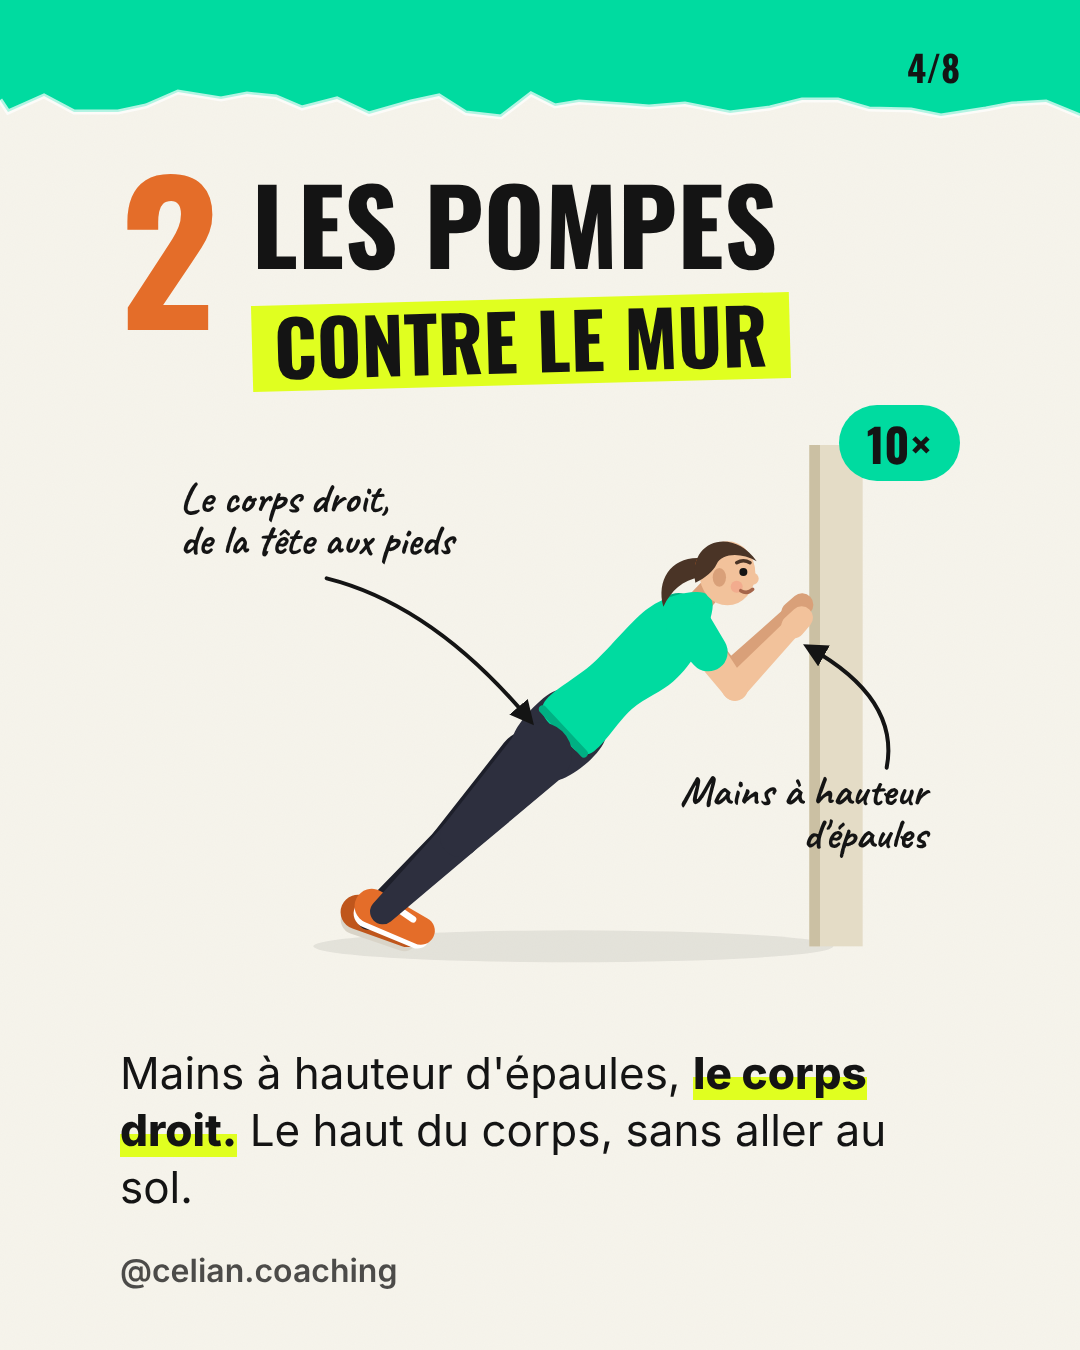
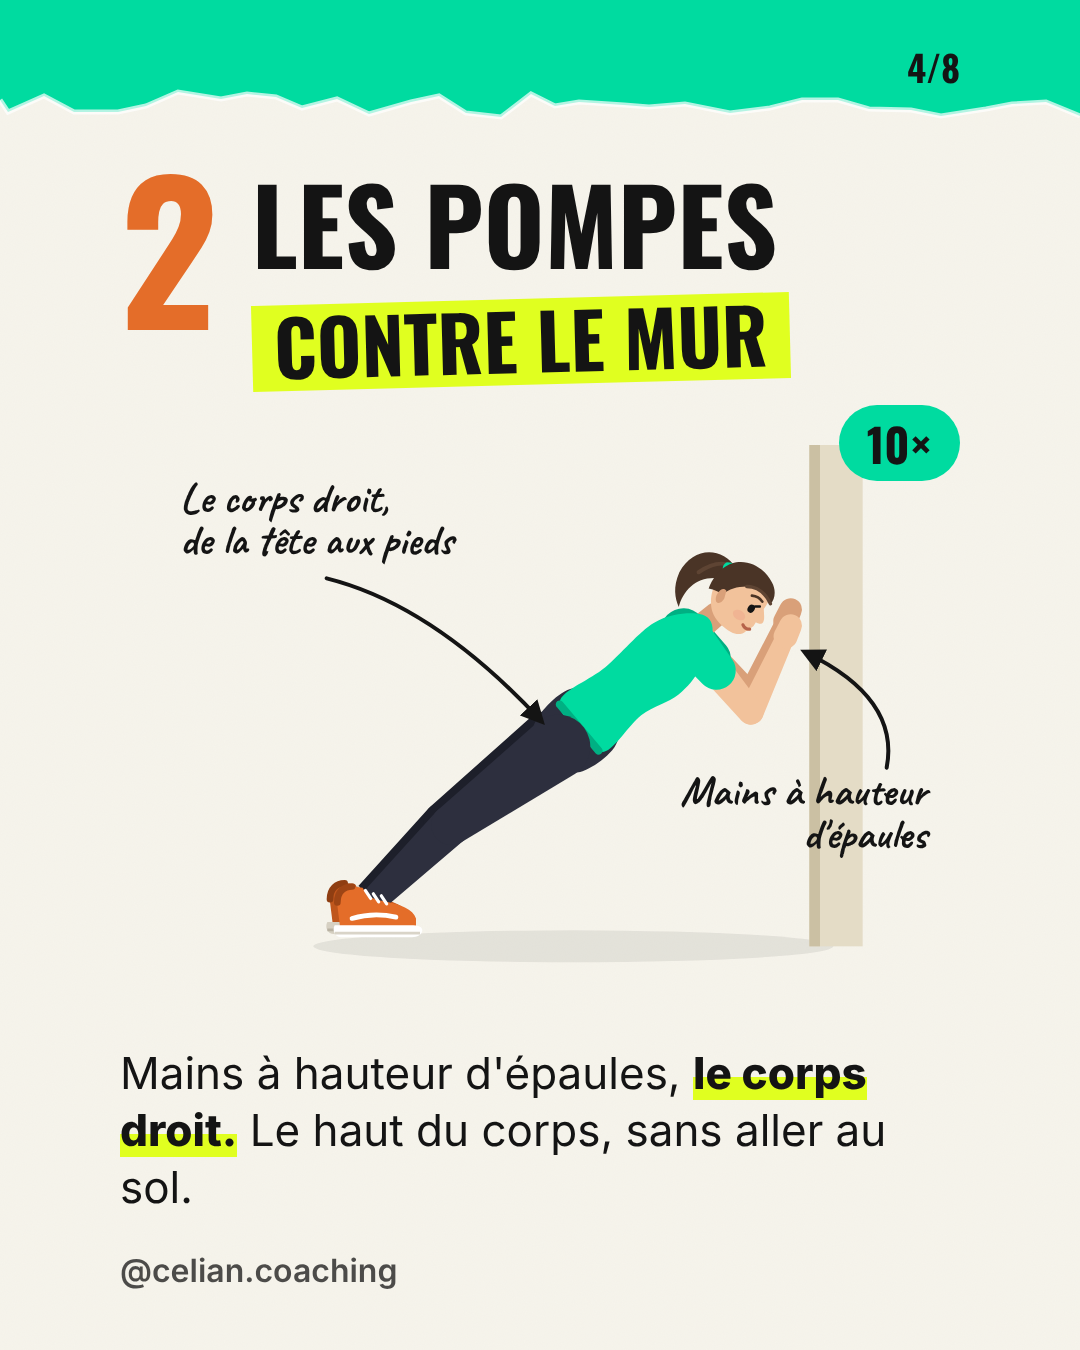
Carousel 01: sneaker shoes, new face, fixed-proportion skeleton, bird dog redrawn
Claude-Session: https://claude.ai/code/session_01EmtKGbXg2Rz9u67xYLS3c3

diff --git a/.claude/instagram/carrousels/01-4-mouvements/slides.html b/.claude/instagram/carrousels/01-4-mouvements/slides.html
@@ -209,17 +209,22 @@ function lisse(pts, col) {
   return `<path d="${d} Z" fill="${col}"/>`;
 }
 
+// basket de profil, tracée cheville à l'origine, pointe vers +x, semelle vers +y
 function chaussure(cheville, pied, dir, ombre) {
-  const u = unit(cheville, pied), talon = add(cheville, u, -9);
-  const sol = dir === 1 ? [-u[1], u[0]] : [u[1], -u[0]];
-  return cap(add(talon, sol, 6), add(pied, sol, 5), 11, 9, ombre ? '#d9d4c8' : '#fff')
-       + cap(talon, pied, 13, 10.5, ombre ? C.chaussureO : C.chaussure)
-       + cap(add(lerp(talon, pied, .45), sol, -7), add(lerp(talon, pied, .8), sol, -5), 2.5, 2.5, ombre ? '#9e4515' : '#fff');
+  const u = unit(cheville, pied), s = dir === 1 ? [-u[1], u[0]] : [u[1], -u[0]];
+  const tige = ombre ? C.chaussureO : C.chaussure, semelle = ombre ? '#d6d0c2' : '#fff';
+  return `<g transform="matrix(${r1(u[0] * 1000) / 1000} ${r1(u[1] * 1000) / 1000} ${r1(s[0] * 1000) / 1000} ${r1(s[1] * 1000) / 1000} ${r1(cheville[0])} ${r1(cheville[1])})">`
+       + `<path d="M-15 10 L-17 -6 C-17 -16 -12 -20 -5 -20 L2 -19 C5 -13 10 -10 18 -9 C30 -7 40 -3 42 4 L42 10 Z" fill="${tige}"/>`
+       + `<path d="M-19 9 L40 9 C46 9 48 12 46 15 C44 18 40 18 36 18 L-14 18 C-19 18 -21 13 -19 9 Z" fill="${semelle}"/>`
+       + `<path d="M-19 15 L45 15" stroke="${ombre ? '#b9b2a2' : '#d9d4c8'}" stroke-width="2"/>`
+       + `<path d="M-6 4 C4 1 14 0 27 3" stroke="${semelle}" stroke-width="3.5" fill="none" stroke-linecap="round"/>`
+       + [[6, -14], [12, -11.5], [18, -10]].map(([x, y]) => `<path d="M${x - 2} ${y - 3} l4 6" stroke="${semelle}" stroke-width="2.4" stroke-linecap="round"/>`).join('')
+       + `<path d="M-17 -8 C-17 -16 -12 -20 -6 -20" stroke="${ombre ? '#8f3e12' : '#9e4515'}" stroke-width="5" fill="none" stroke-linecap="round"/></g>`;
 }
 function jambe(l, dir, ombre) {
   const bas = ombre ? C.basO : C.bas;
-  return chaussure(l.cheville, l.pied, dir, ombre)
-       + cap(l.genou, l.cheville, 15, 9.5, bas) + cap(l.hanche, l.genou, 24, 15, bas);
+  return cap(l.genou, l.cheville, 15, 9, bas) + chaussure(l.cheville, l.pied, dir, ombre)
+       + cap(l.hanche, l.genou, 24, 15, bas);
 }
 function bras(a, ombre) {
   const peau = ombre ? C.peauO : C.peau, u = unit(a.coude, a.main);
@@ -238,26 +243,56 @@ function tronc(h, e, dir) {
   return lisse(bassin, C.bas) + lisse(haut, C.haut)
        + cap(at(.16, nb, 23), at(.16, nf, 22), 3, 3, C.hautO);
 }
-// tête de profil, dessinée regard vers la droite puis retournée selon dir
+// tête de profil (nez, lèvres, menton), regard vers la droite puis retournée selon dir
 function tete(t, dir, angle = 0) {
-  return `<g transform="translate(${t[0]} ${t[1]}) scale(${dir} 1) rotate(${angle})">`
-       + `<path d="M-14 -10 C-38 -14 -52 4 -46 26 C-40 14 -32 6 -18 4 Z" fill="${C.cheveux}"/>`
-       + `<circle cx="-17" cy="-6" r="5" fill="${C.chaussure}"/>`
-       + `<ellipse cx="2" cy="1" rx="21" ry="24" fill="${C.peau}"/>`
-       + `<circle cx="21" cy="5" r="4.5" fill="${C.peau}"/>`
-       + `<path d="M-22 8 C-28 -24 6 -34 24 -8 C12 -15 -2 -14 -6 -6 C-9 0 -14 4 -22 8 Z" fill="${C.cheveux}"/>`
-       + `<ellipse cx="-4" cy="4" rx="5" ry="7" fill="${C.peauO}"/>`
-       + `<circle cx="9" cy="11" r="4.5" fill="#f29c86" opacity=".6"/>`
-       + `<path d="M9 -7 q5 -3 10 0" stroke="${C.cheveux}" stroke-width="2.6" fill="none" stroke-linecap="round"/>`
-       + `<circle cx="14" cy="0" r="3" fill="#141414"/>`
-       + `<path d="M12 14 q5 3 9 -1" stroke="#a5654a" stroke-width="2.6" fill="none" stroke-linecap="round"/></g>`;
+  return `<g transform="translate(${r1(t[0])} ${r1(t[1])}) scale(${dir} 1) rotate(${r1(angle)})">`
+       + `<path d="M-12 -18 C-30 -26 -48 -14 -46 8 C-44 20 -38 26 -32 30 C-36 18 -34 4 -20 -4 Z" fill="${C.cheveux}"/>`
+       + `<path d="M-12 -18 C-24 -18 -30 -10 -34 0" stroke="#5e4433" stroke-width="3" fill="none" stroke-linecap="round"/>`
+       + `<rect x="-20" y="-20" width="9" height="13" rx="4" transform="rotate(-30 -15 -13)" fill="${C.haut}"/>`
+       + `<path d="M-19 -4 C-19 -20 -7 -25 5 -25 C16 -25 22 -17 22 -7 L22 -4 C24 -1 27 2 27 4.5 C27 6.5 25 7.5 22.5 7.5`
+       + ` C22.5 9.5 23 11 22 12.5 C22.5 14 22 16 20 17 C19 21 16 23.5 11 24 C4 24.5 -4 23 -9 19 C-15 14 -19 6 -19 -4 Z" fill="${C.peau}"/>`
+       + `<path d="M-21 6 C-27 -24 -2 -34 16 -24 C22 -21 25 -15 24 -10 C16 -15 8 -15 2 -11 C-4 -7 -8 -2 -10 4 C-13 4 -17 4 -21 6 Z" fill="${C.cheveux}"/>`
+       + `<path d="M2 -11 C8 -15 16 -15 24 -10" stroke="#5e4433" stroke-width="2.5" fill="none" stroke-linecap="round"/>`
+       + `<path d="M-9 0 C-14 -2 -15 8 -11 11 C-8 12 -7 9 -7 6" fill="${C.peauO}"/>`
+       + `<path d="M9 -7.5 Q13.5 -10 18 -8" stroke="${C.cheveux}" stroke-width="2" fill="none" stroke-linecap="round"/>`
+       + `<ellipse cx="14" cy="1" rx="2.6" ry="3.2" fill="#141414"/>`
+       + `<path d="M15.5 -2 l3 -2" stroke="#141414" stroke-width="1.8" stroke-linecap="round"/>`
+       + `<ellipse cx="9" cy="10" rx="5" ry="3.5" fill="#ef9a84" opacity=".35"/>`
+       + `<path d="M15.5 14.5 Q18.5 16.5 21.5 14.5" stroke="#b5634a" stroke-width="2.4" fill="none" stroke-linecap="round"/></g>`;
 }
 function personne(p) {
-  const t = lerp(p.epaule, p.tete, .78), cou = lerp(p.epaule, t, .55);
+  const cou = lerp(p.epaule, p.tete, .55);
   return jambe(p.jambeLoin, p.dir, true) + bras(p.brasLoin, true)
        + cap(lerp(p.hanche, p.epaule, .9), cou, 10, 9, C.peauO)
        + tronc(p.hanche, p.epaule, p.dir)
-       + jambe(p.jambe, p.dir, false) + tete(t, p.dir, p.angle) + bras(p.bras, false);
+       + jambe(p.jambe, p.dir, false) + tete(p.tete, p.dir, p.angle) + bras(p.bras, false);
+}
+
+// squelette aux proportions fixes : on donne le bassin, l'angle du buste,
+// et où vont mains et chevilles ; coudes et genoux se placent tout seuls.
+const L = { tronc: 130, cou: 44, bras: 70, avantBras: 62, cuisse: 100, tibia: 95, pied: 36 };
+const vec = (deg, l) => [Math.cos(deg * Math.PI / 180) * l, Math.sin(deg * Math.PI / 180) * l];
+function ik(a, cible, l1, l2, pli) {
+  const d = Math.min(Math.hypot(cible[0] - a[0], cible[1] - a[1]), l1 + l2 - .5);
+  const th = Math.atan2(cible[1] - a[1], cible[0] - a[0]);
+  const al = Math.acos((l1 * l1 + d * d - l2 * l2) / (2 * l1 * d)) * pli;
+  const mid = [a[0] + l1 * Math.cos(th + al), a[1] + l1 * Math.sin(th + al)];
+  return [mid, add(mid, unit(mid, cible), l2)];
+}
+function squelette(s) {
+  const h = s.hanche, e = add(h, vec(s.tronc, L.tronc));
+  const spine = s.tronc, aligne = s.dir === 1 ? spine + 90 : 270 - spine;
+  const jambe = (j, hh) => { const [g, c] = ik(hh, j.cheville, L.cuisse, L.tibia, j.pli);
+    return { hanche: hh, genou: g, cheville: c, pied: add(c, vec(j.pied, L.pied)) }; };
+  const bras = (b, ee) => { const [c, m] = ik(ee, b.main, L.bras, L.avantBras, b.pli);
+    return { epaule: ee, coude: c, main: m }; };
+  const loin = [-6 * s.dir, -3];
+  return {
+    dir: s.dir, hanche: h, epaule: e,
+    tete: add(e, vec(spine + (s.nuque || 0) * s.dir, L.cou)), angle: aligne * .55 + (s.regard || 0),
+    jambe: jambe(s.jambe, h), jambeLoin: jambe(s.jambeLoin, add(h, loin)),
+    bras: bras(s.bras, add(e, [0, 4])), brasLoin: bras(s.brasLoin, add(e, loin)),
+  };
 }
 // texte manuscrit (une ou deux lignes) + flèche courbe
 function note(x, y, lignes, de, vers, ctrl, ancre = 'start') {
@@ -270,70 +305,72 @@ const tapis = (x1, x2) => `<rect x="${x1}" y="398" width="${x2 - x1}" height="12
 
 const POSES = {
   squat: {
-    box: '140 70 330 340',
-    decor: () => ombreSol(150, 470)
-      + seg([440, 300], [440, 400], 14, C.meubleO) + seg([440, 300], [440, 160], 14, C.meubleO)
-      + `<rect x="318" y="290" width="128" height="18" rx="6" fill="${C.meuble}"/>`
-      + seg([330, 300], [330, 400], 14, C.meuble),
-    p: {
-      dir: -1, hanche: [328, 268], epaule: [290, 170], cou: [282, 150], tete: [266, 112],
-      jambe: { hanche: [328, 268], genou: [236, 282], cheville: [236, 384], pied: [200, 392] },
-      jambeLoin: { hanche: [320, 262], genou: [250, 276], cheville: [252, 382], pied: [216, 389] },
-      bras: { epaule: [288, 180], coude: [236, 196], main: [184, 196] },
-      brasLoin: { epaule: [296, 172], coude: [246, 186], main: [196, 186] },
+    decor: () => ombreSol(150, 480)
+      + seg([450, 300], [450, 400], 14, C.meubleO) + seg([450, 300], [450, 160], 14, C.meubleO)
+      + `<rect x="326" y="292" width="130" height="18" rx="6" fill="${C.meuble}"/>`
+      + seg([338, 300], [338, 400], 14, C.meuble),
+    s: {
+      dir: -1, hanche: [344, 262], tronc: 252, regard: 4,
+      jambe: { cheville: [238, 382], pied: 182, pli: 1 },
+      jambeLoin: { cheville: [252, 380], pied: 182, pli: 1 },
+      bras: { main: [168, 160], pli: -1 },
+      brasLoin: { main: [178, 150], pli: -1 },
     },
-    notes: () => note(20, 60, ['Dos droit'], [130, 62], [322, 200], [380, 50])
-      + note(20, 250, ['Sans', 'les mains'], [70, 220], [166, 198], [110, 196])
-      + note(20, 440, ['Pieds à plat'], [150, 420], [208, 404], [180, 430])
-      + note(470, 220, ['Les fesses', 'frôlent la chaise'], [520, 260], [360, 282], [470, 300]),
+    notes: () => note(410, 120, ['Dos droit'], [430, 132], [346, 206], [420, 190])
+      + note(20, 250, ['Sans', 'les mains'], [70, 220], [160, 170], [100, 180])
+      + note(20, 440, ['Pieds à plat'], [150, 420], [214, 404], [184, 430])
+      + note(480, 220, ['Les fesses', 'frôlent la chaise'], [530, 260], [372, 282], [480, 300]),
   },
   mur: {
-    box: '130 60 420 360',
     decor: () => ombreSol(130, 520) + `<rect x="502" y="30" width="40" height="376" fill="#e4dcc6"/><rect x="502" y="30" width="8" height="376" fill="#cbc0a3"/>`,
-    p: {
-      dir: 1, hanche: [300, 262], epaule: [412, 158], cou: [424, 146], tete: [446, 116],
-      jambe: { hanche: [300, 262], genou: [240, 324], cheville: [182, 380], pied: [210, 394] },
-      jambeLoin: { hanche: [292, 268], genou: [232, 330], cheville: [172, 384], pied: [200, 396] },
-      bras: { epaule: [412, 166], coude: [446, 212], main: [490, 166] },
-      brasLoin: { epaule: [404, 158], coude: [442, 202], main: [490, 156] },
+    s: {
+      dir: 1, hanche: [314, 256], tronc: -40, regard: 6,
+      jambe: { cheville: [160, 386], pied: 0, pli: 1 },
+      jambeLoin: { cheville: [150, 388], pied: 0, pli: 1 },
+      bras: { main: [484, 174], pli: 1 },
+      brasLoin: { main: [484, 162], pli: 1 },
     },
-    notes: () => note(30, 80, ['Le corps droit,', 'de la tête aux pieds'], [140, 130], [292, 236], [220, 150])
-      + note(590, 300, ['Mains à hauteur', "d'épaules"], [560, 272], [502, 182], [570, 220], 'end'),
+    notes: () => note(30, 80, ['Le corps droit,', 'de la tête aux pieds'], [140, 130], [300, 236], [220, 150])
+      + note(590, 300, ['Mains à hauteur', "d'épaules"], [560, 272], [500, 186], [570, 220], 'end'),
   },
   gainage: {
-    box: '70 230 460 190',
-    decor: () => ombreSol(70, 530) + tapis(60, 540),
-    p: {
-      dir: 1, hanche: [266, 336], epaule: [410, 300], cou: [430, 294], tete: [468, 282],
-      jambe: { hanche: [266, 336], genou: [186, 358], cheville: [114, 376], pied: [102, 398] },
-      jambeLoin: { hanche: [262, 330], genou: [182, 352], cheville: [110, 370], pied: [94, 394] },
-      bras: { epaule: [410, 308], coude: [410, 386], main: [490, 386] },
-      brasLoin: { epaule: [402, 300], coude: [398, 384], main: [476, 382] },
+    decor: () => ombreSol(50, 550) + tapis(40, 560),
+    s: {
+      dir: 1, hanche: [288, 330], tronc: -8, regard: 4,
+      jambe: { cheville: [100, 362], pied: 112, pli: 1 },
+      jambeLoin: { cheville: [96, 358], pied: 112, pli: 1 },
+      bras: { main: [486, 384], pli: 1 },
+      brasLoin: { main: [474, 380], pli: 1 },
     },
-    notes: () => note(40, 180, ['Bassin aligné'], [130, 194], [262, 300], [220, 200])
-      + note(300, 120, ['Ventre serré'], [360, 132], [340, 292], [400, 200])
-      + note(590, 200, ['Coudes sous', 'les épaules'], [520, 248], [424, 376], [520, 330], 'end'),
+    notes: () => note(30, 180, ['Bassin aligné'], [120, 194], [282, 300], [220, 200])
+      + note(290, 120, ['Ventre serré'], [350, 132], [350, 320], [410, 220])
+      + note(590, 200, ['Coudes sous', 'les épaules'], [520, 248], [430, 376], [520, 330], 'end'),
   },
   birddog: {
-    box: '10 170 570 240',
-    decor: () => ombreSol(30, 570) + tapis(80, 470),
-    p: {
-      dir: 1, angle: 60, hanche: [222, 276], epaule: [398, 268], cou: [418, 266], tete: [448, 268],
-      jambe: { hanche: [222, 276], genou: [138, 270], cheville: [54, 262], pied: [28, 250] },
-      jambeLoin: { hanche: [228, 284], genou: [228, 392], cheville: [134, 396], pied: [112, 388] },
-      bras: { epaule: [398, 276], coude: [400, 336], main: [404, 392] },
-      brasLoin: { epaule: [392, 264], coude: [468, 252], main: [540, 240] },
+    decor: () => ombreSol(40, 570) + tapis(130, 470),
+    s: {
+      dir: 1, hanche: [270, 264], tronc: -3, regard: 10, nuque: 6,
+      jambe: { cheville: [60, 266], pied: 92, pli: 1 },
+      jambeLoin: { cheville: [178, 362], pied: 100, pli: -1 },
+      bras: { main: [404, 420], pli: 1 },
+      brasLoin: { main: [560, 246], pli: 1 },
     },
-    notes: () => note(250, 110, ['Dos plat'], [300, 122], [310, 232], [330, 170])
-      + note(20, 110, ['Bras et jambe', 'opposés'], [80, 160], [70, 240], [50, 200])
-      + note(590, 130, ['Regard au sol'], [530, 146], [470, 300], [560, 250], 'end')
-      + note(20, 350, ['Bassin immobile'], [180, 322], [212, 302], [205, 320]),
+    notes: () => note(260, 120, ['Dos plat'], [310, 132], [330, 236], [340, 180])
+      + note(20, 110, ['Bras et jambe', 'opposés'], [80, 160], [90, 248], [50, 210])
+      + note(590, 130, ['Regard au sol'], [540, 146], [470, 296], [560, 250], 'end')
+      + note(20, 345, ['Bassin immobile'], [200, 322], [258, 296], [240, 320]),
   },
 };
+for (const k in POSES) POSES[k].p = squelette(POSES[k].s);
 
 function dessin(nom, notes) {
   const P = POSES[nom];
   return defs + P.decor() + personne(P.p) + (notes ? P.notes() : '');
+}
+// cadre une illustration sans annotations au plus juste
+function cadrer(s, marge) {
+  const b = s.getBBox();
+  s.setAttribute('viewBox', `${b.x - marge} ${b.y - marge} ${b.width + 2 * marge} ${b.height + 2 * marge}`);
 }
 
 document.querySelectorAll('[data-pose]').forEach(s => {
@@ -341,12 +378,12 @@ document.querySelectorAll('[data-pose]').forEach(s => {
   s.innerHTML = dessin(s.dataset.pose, true);
 });
 document.querySelectorAll('[data-mini]').forEach(s => {
-  s.setAttribute('viewBox', POSES[s.dataset.mini].box);
   s.innerHTML = dessin(s.dataset.mini, false);
+  cadrer(s, 6);
 });
 const cov = document.getElementById('cover-illu');
-cov.setAttribute('viewBox', '130 60 360 360');
 cov.innerHTML = dessin('squat', false);
+cadrer(cov, 10);
 
 // bande de papier déchiré en haut
 document.querySelectorAll('[data-bande]').forEach(s => {

diff --git a/.claude/instagram/charte.md b/.claude/instagram/charte.md
@@ -22,7 +22,10 @@ Inspiration : les infographies de @supertrainers, avec nos couleurs (exemples da
 - Fond papier clair `#f6f4ec`, bande de papier déchiré en haut (menthe ou citron).
 - Titre en Oswald noir, un mot dans un encadré de couleur légèrement penché.
 - Personnage dessiné à plat, membres effilés et silhouette de profil (t-shirt menthe,
-  legging foncé, baskets orange à semelle blanche, queue de cheval),
+  legging foncé, baskets orange à semelle blanche avec lacets, visage de profil
+  avec nez et menton, queue de cheval),
   annotations manuscrites (police Caveat) avec des flèches vers le geste.
 - Le dessin et les annotations sont générés par `carrousels/01-4-mouvements/slides.html`
-  (fonctions `personne()`, `tronc()`, `cap()` + poses) : réutiliser ce fichier comme base.
+  (fonctions `personne()`, `tronc()`, `chaussure()`, `tete()` ; chaque pose se
+  décrit par le bassin, l'angle du buste et la place des mains et des chevilles,
+  `squelette()` garde les mêmes longueurs de membres partout) : réutiliser ce fichier comme base.
